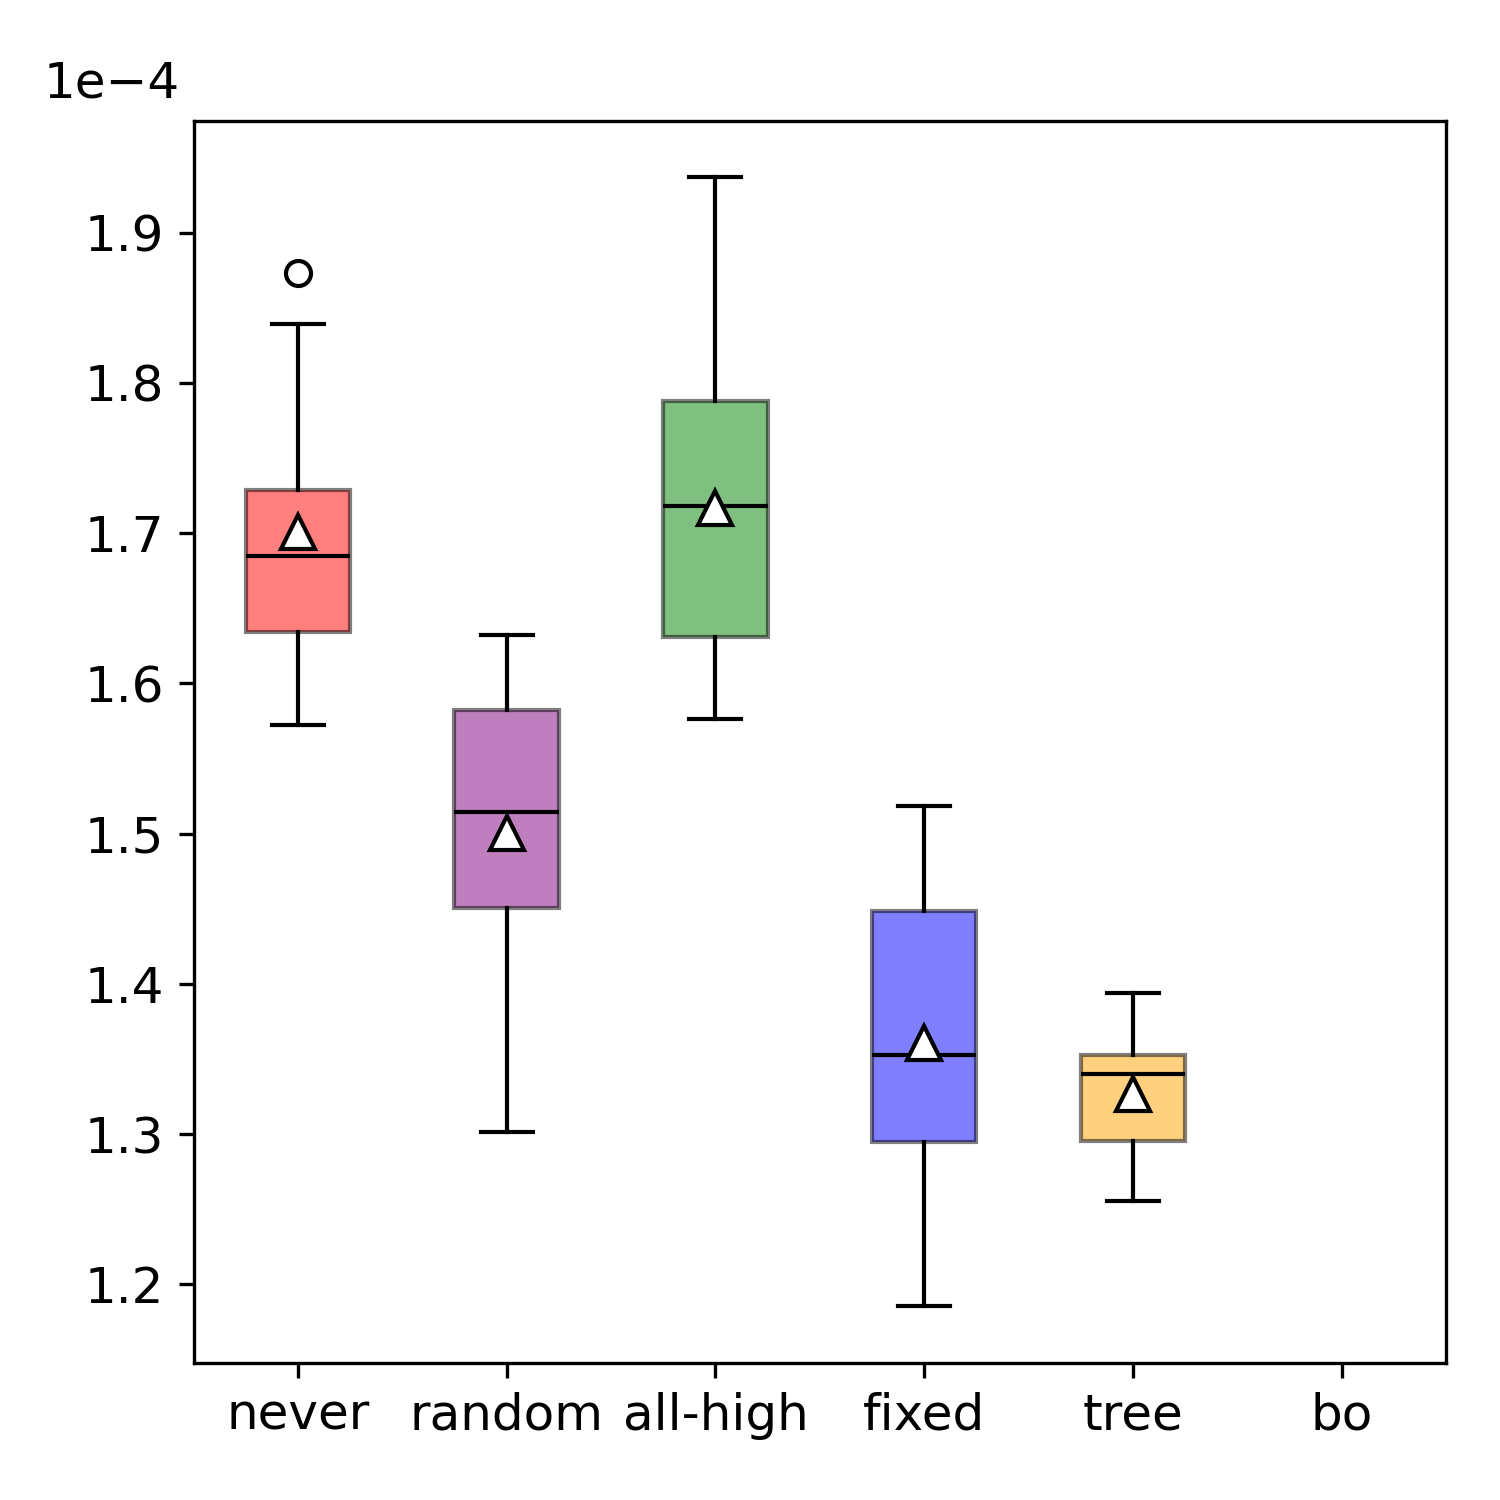
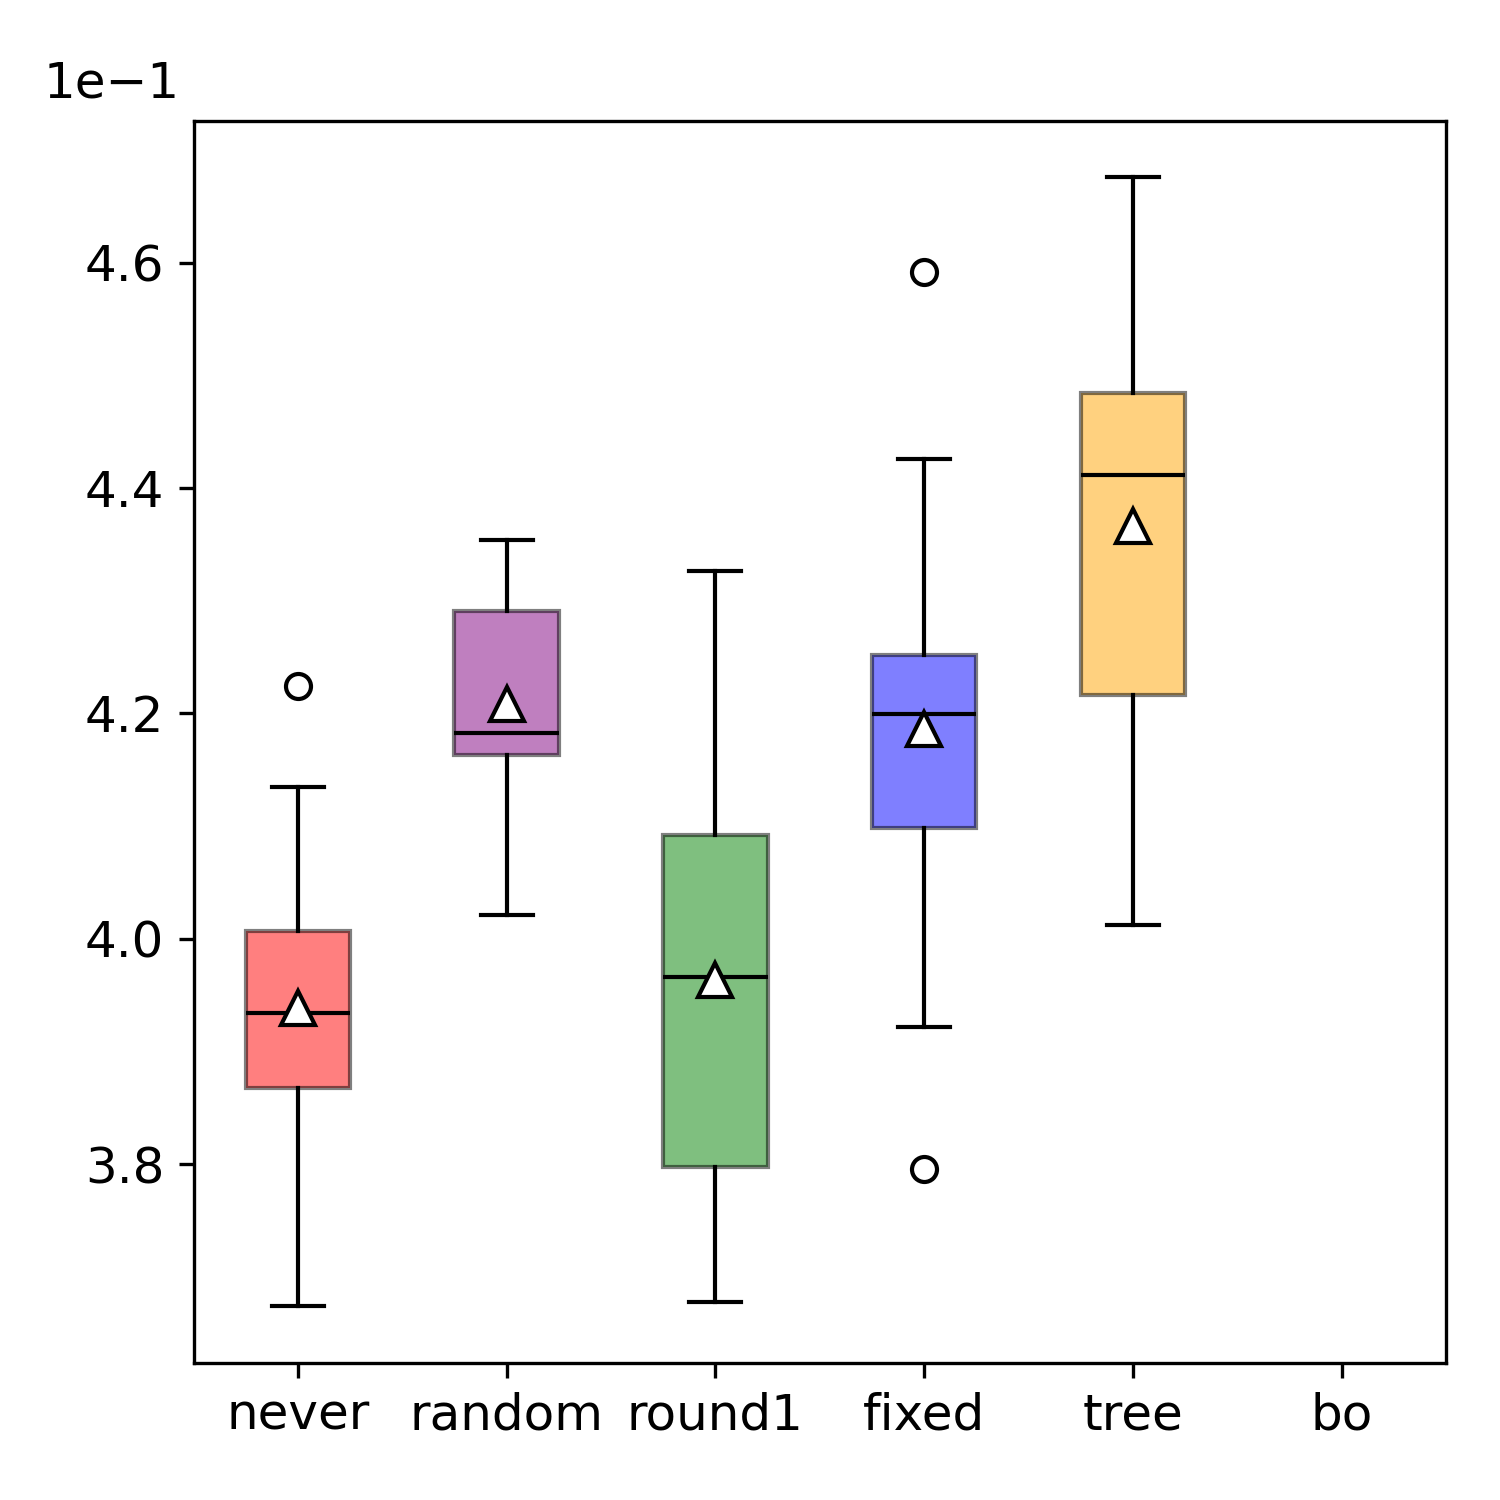
updated plots and table code

diff --git a/Docker/results/plot_results.py b/Docker/results/plot_results.py
@@ -56,7 +56,12 @@ def VD_A(treatment: List[float], control: List[float]):
     return estimate, magnitude
 
 
-metric = 'F1 Score Over Total Time for FL Round'
+metric = {('selector', 'same'): 'F1 Score Over Total Time for FL Round',
+          ('selector', 'new'): 'F1 Score Over Total Time for FL Round',
+          ('hdh', 'same'): 'Val F1', ('hdh', 'new'): 'Val F1'}
+
+label_dict = {'selector': ['never', 'random', 'all-high', 'fixed', 'tree', 'bo'],
+              'hdh': ['never', 'random', 'round1', 'fixed', 'tree', 'bo']}
 
 patterns = ['selector', 'hdh']
 persistences = ['same', 'new']
@@ -100,11 +105,11 @@ def plot_by_filter(pattern, persistence, iid_percentage, filter):
             exp_data.extend(get_exp_data(pair[0], pair[1], iid_percentage, persistence))
 
     colors = ['red', 'purple', 'green', 'blue', 'orange', 'pink'][:len(selected_confs)]
-    labels = ['never', 'random', 'all-high', 'fixed', 'tree', 'bo'][:len(selected_confs)]
+    labels = label_dict[pattern][:len(selected_confs)]
     d = []
     for conf in selected_confs:
         d.append([])
-        data = [model_data[metric].tolist() for exp, model_data in exp_data if
+        data = [model_data[metric[(pattern, persistence)]].tolist() for exp, model_data in exp_data if
                 exp.split('/')[-1].split('_')[0] == conf.format(pattern)]
         for i in range(len(data)):
             d[-1].append(data[i][-1])
@@ -145,7 +150,7 @@ def run_statistical_tests(pattern, persistence, iid_percentage, filter):
     d = []
     for conf in selected_confs:
         d.append([])
-        data = [model_data[metric].tolist() for exp, model_data in exp_data if
+        data = [model_data[metric[(pattern, persistence)]].tolist() for exp, model_data in exp_data if
                 exp.split('/')[-1].split('_')[0] == conf.format(pattern)]
         for i in range(len(data)):
             d[-1].append(data[i][-1])
